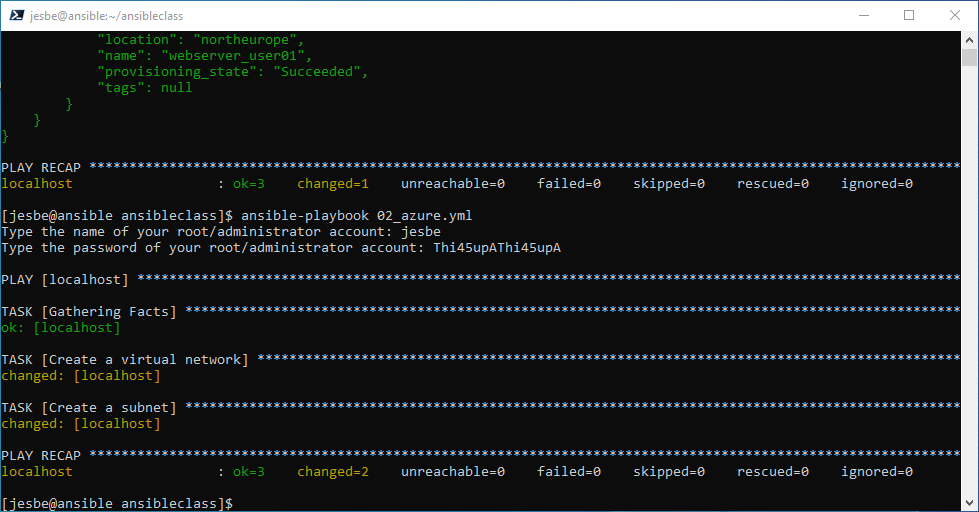
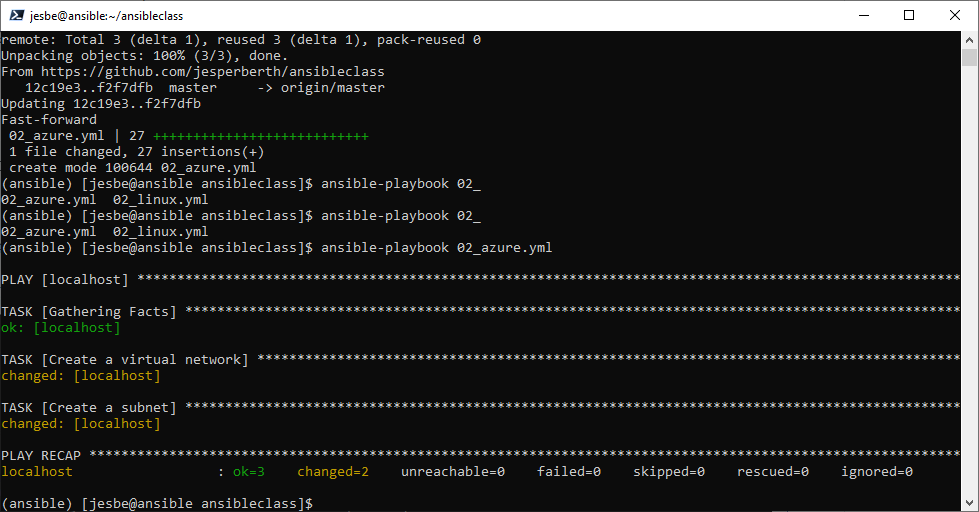
azure net play run

diff --git a/lab04/lab4.md b/lab04/lab4.md
@@ -239,7 +239,7 @@ ansible-playbook 02_azure.yml
 
 ```
 
-![Alt text](pics/013_azure_net_playbook_run.png?raw=true "azure net playbook")
+![Alt text](pics/013_azure_net_playbook_run.png?raw=true "azure net playbook run")
 
 ## Task 3: Create Public Ip, NIC and Security Group in Azure
 
